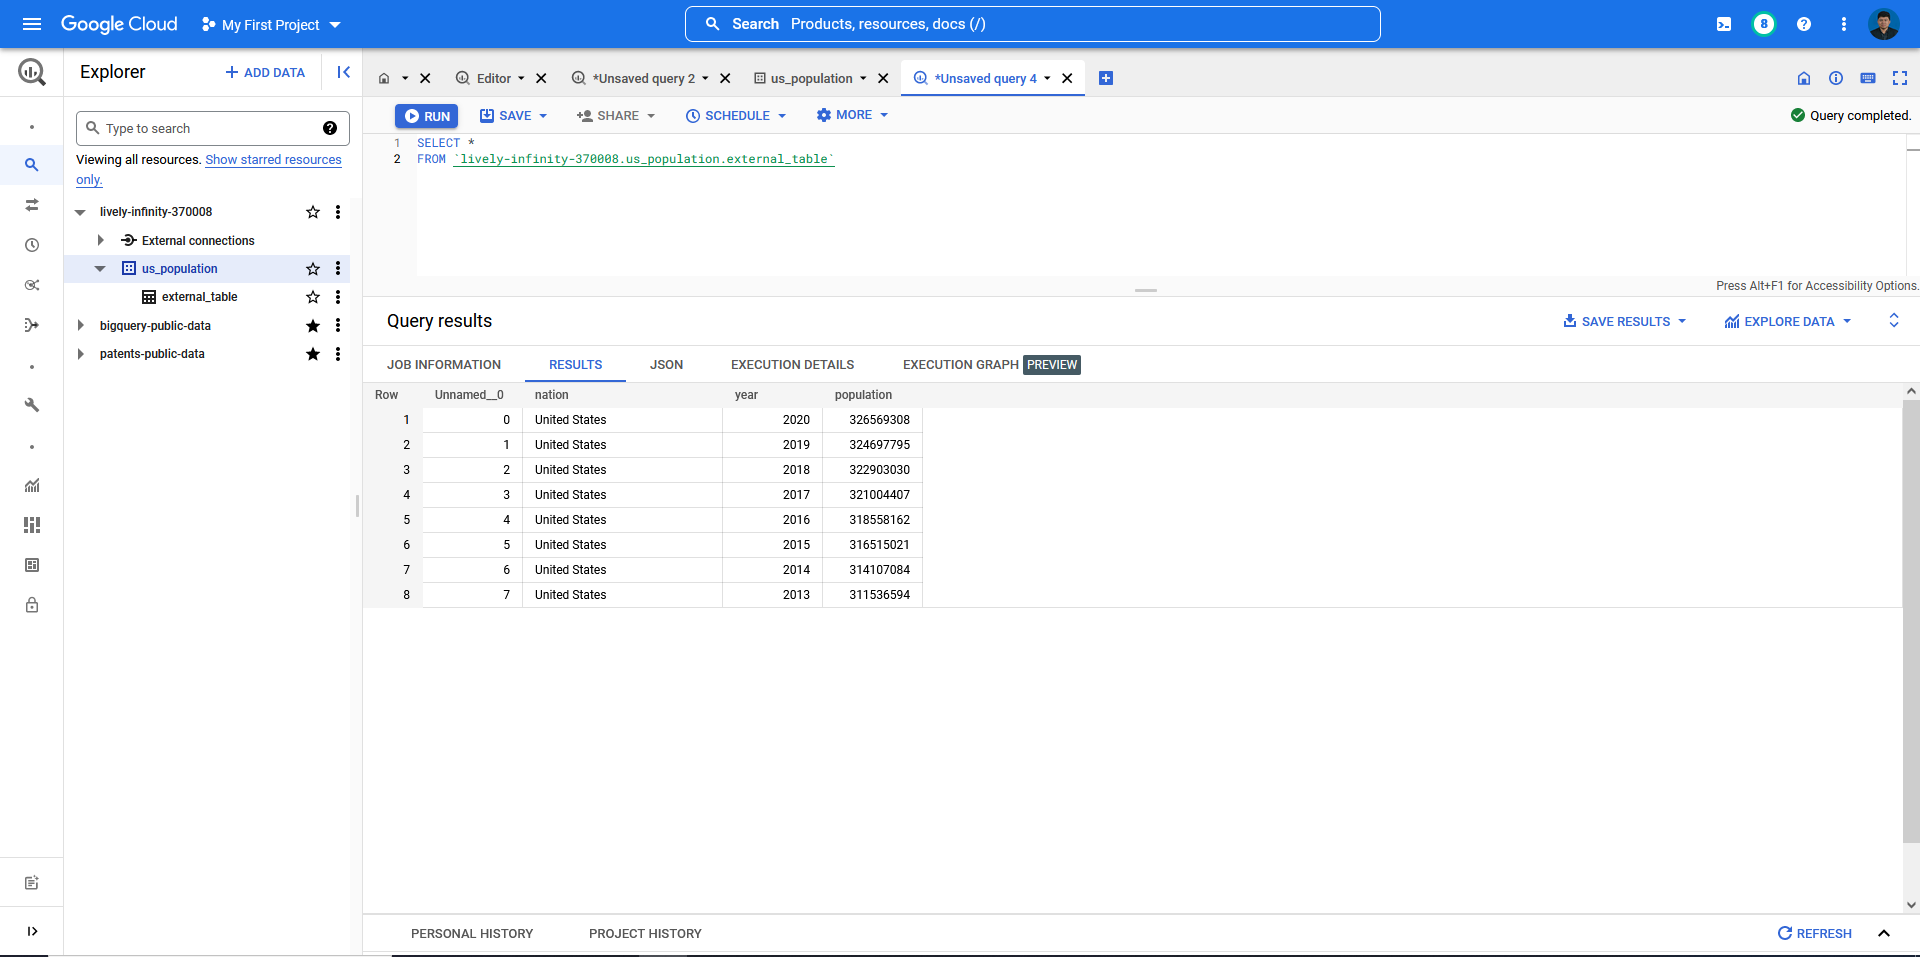
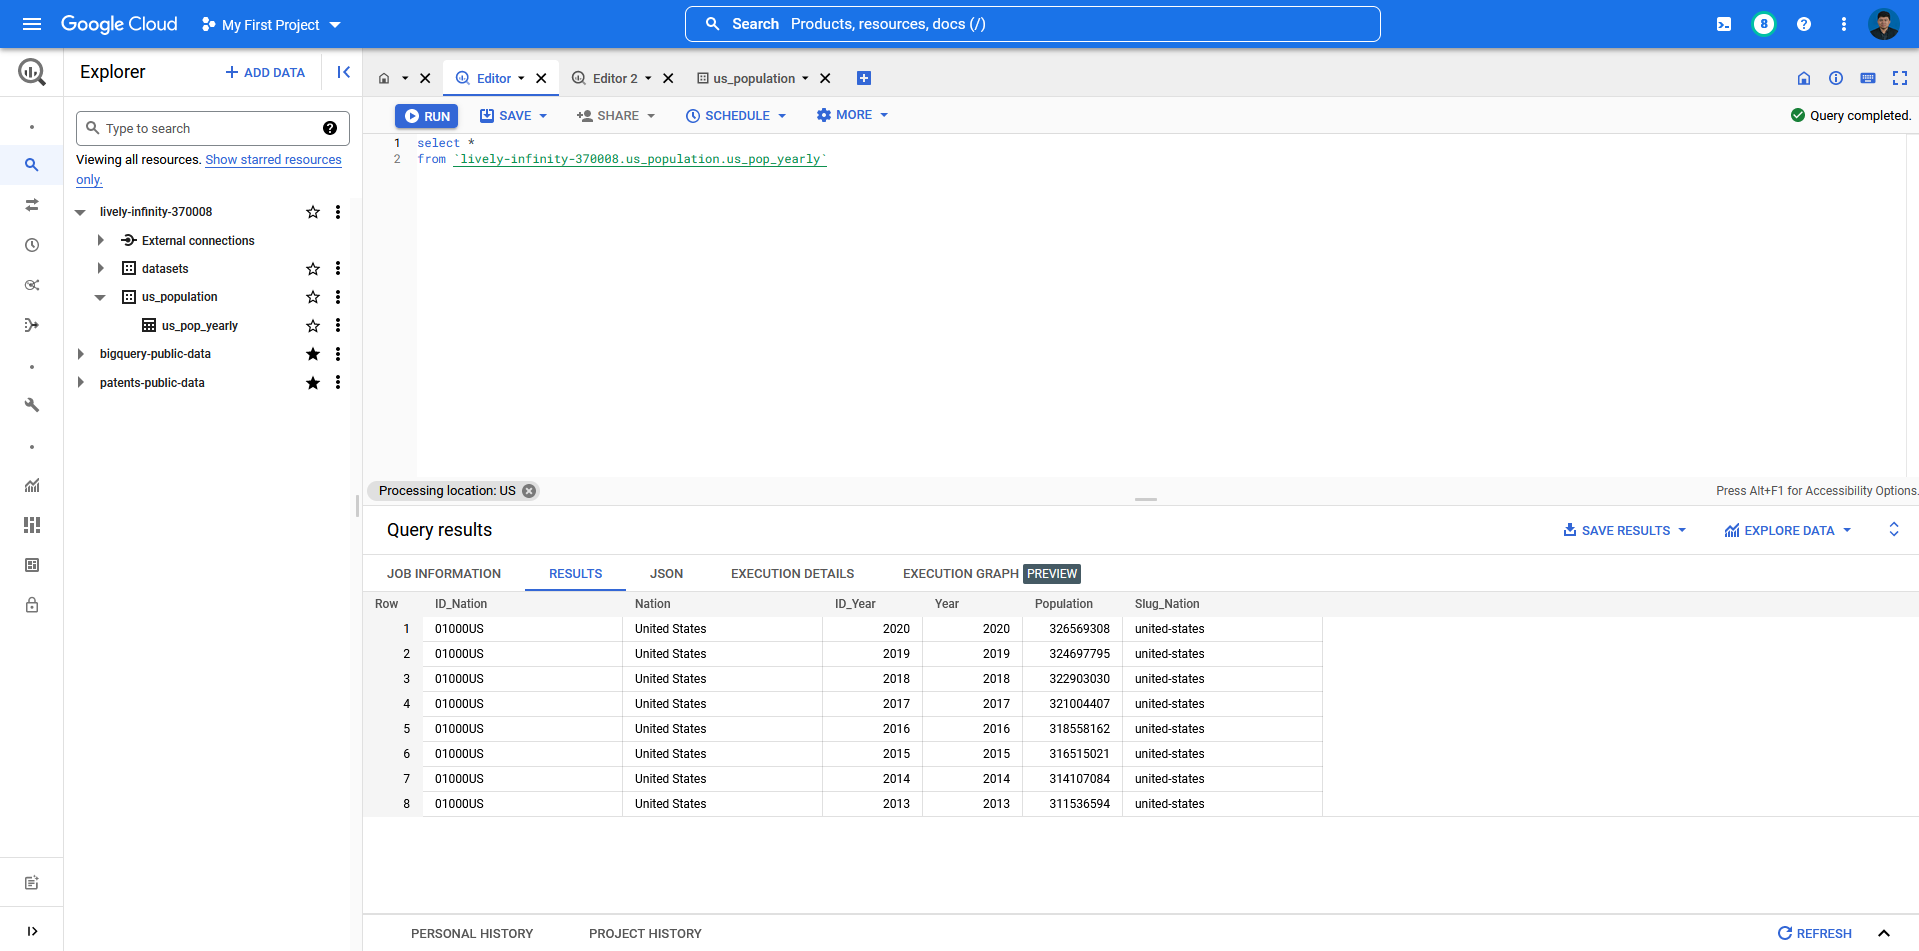
rev

diff --git a/case-2/dags/AirflowClean2.py b/case-2/dags/AirflowClean2.py
@@ -19,25 +19,28 @@ BIGQUERY_DATASET = "us_population"
             
 def get_data(ti): 
     data = requests.get('https://datausa.io/api/data?drilldowns=Nation&measures=Population')
+    id_nation = []
     nation = []
+    id_year = []
     year = []
     population = []
+    slug_nation = []
 
     for i in data.json()['data']:
+        id_nation.append(i['ID Nation'])
         nation.append(i['Nation'])
+        id_year.append(int(i['ID Year']))
         year.append(int(i['Year']))
         population.append(int(i['Population']))
+        slug_nation.append(i["Slug Nation"])
 
-    ti.xcom_push(key = 'nation', value = nation)
-    ti.xcom_push(key = 'year', value = year)
-    ti.xcom_push(key = 'population', value = population)
+    result = {'ID Nation':id_nation, 'Nation':nation, "ID Year":id_year, "Year":year, "Population":population, "Slug Nation":slug_nation}
+    ti.xcom_push(key = 'parsing_result', value = result)
 
 def to_csv(ti, csv_filename):
-    nation = ti.xcom_pull(task_ids='get_data', key='nation')
-    year = ti.xcom_pull(task_ids='get_data', key='year')
-    population = ti.xcom_pull(task_ids='get_data', key='population')
-    df = pd.DataFrame({'nation':nation, 'year':year, 'population':population})
-    df.to_csv('/opt/airflow/dags/'+csv_filename)
+    dict_result = ti.xcom_pull(task_ids='get_data', key='parsing_result')
+    df = pd.DataFrame(dict_result)
+    df.to_csv('/opt/airflow/dags/'+csv_filename, index=False)
 
 def to_parquet(csv_filename, parquet_filename):
     df = pd.read_csv('/opt/airflow/dags/'+csv_filename)
@@ -110,7 +113,7 @@ with DAG('dag1',
             "tableReference": {
                 "projectId": PROJECT_ID,
                 "datasetId": BIGQUERY_DATASET,
-                "tableId": "external_table",
+                "tableId": "us_pop_yearly",
             },
             "externalDataConfiguration": {
                 "sourceFormat": "PARQUET",
